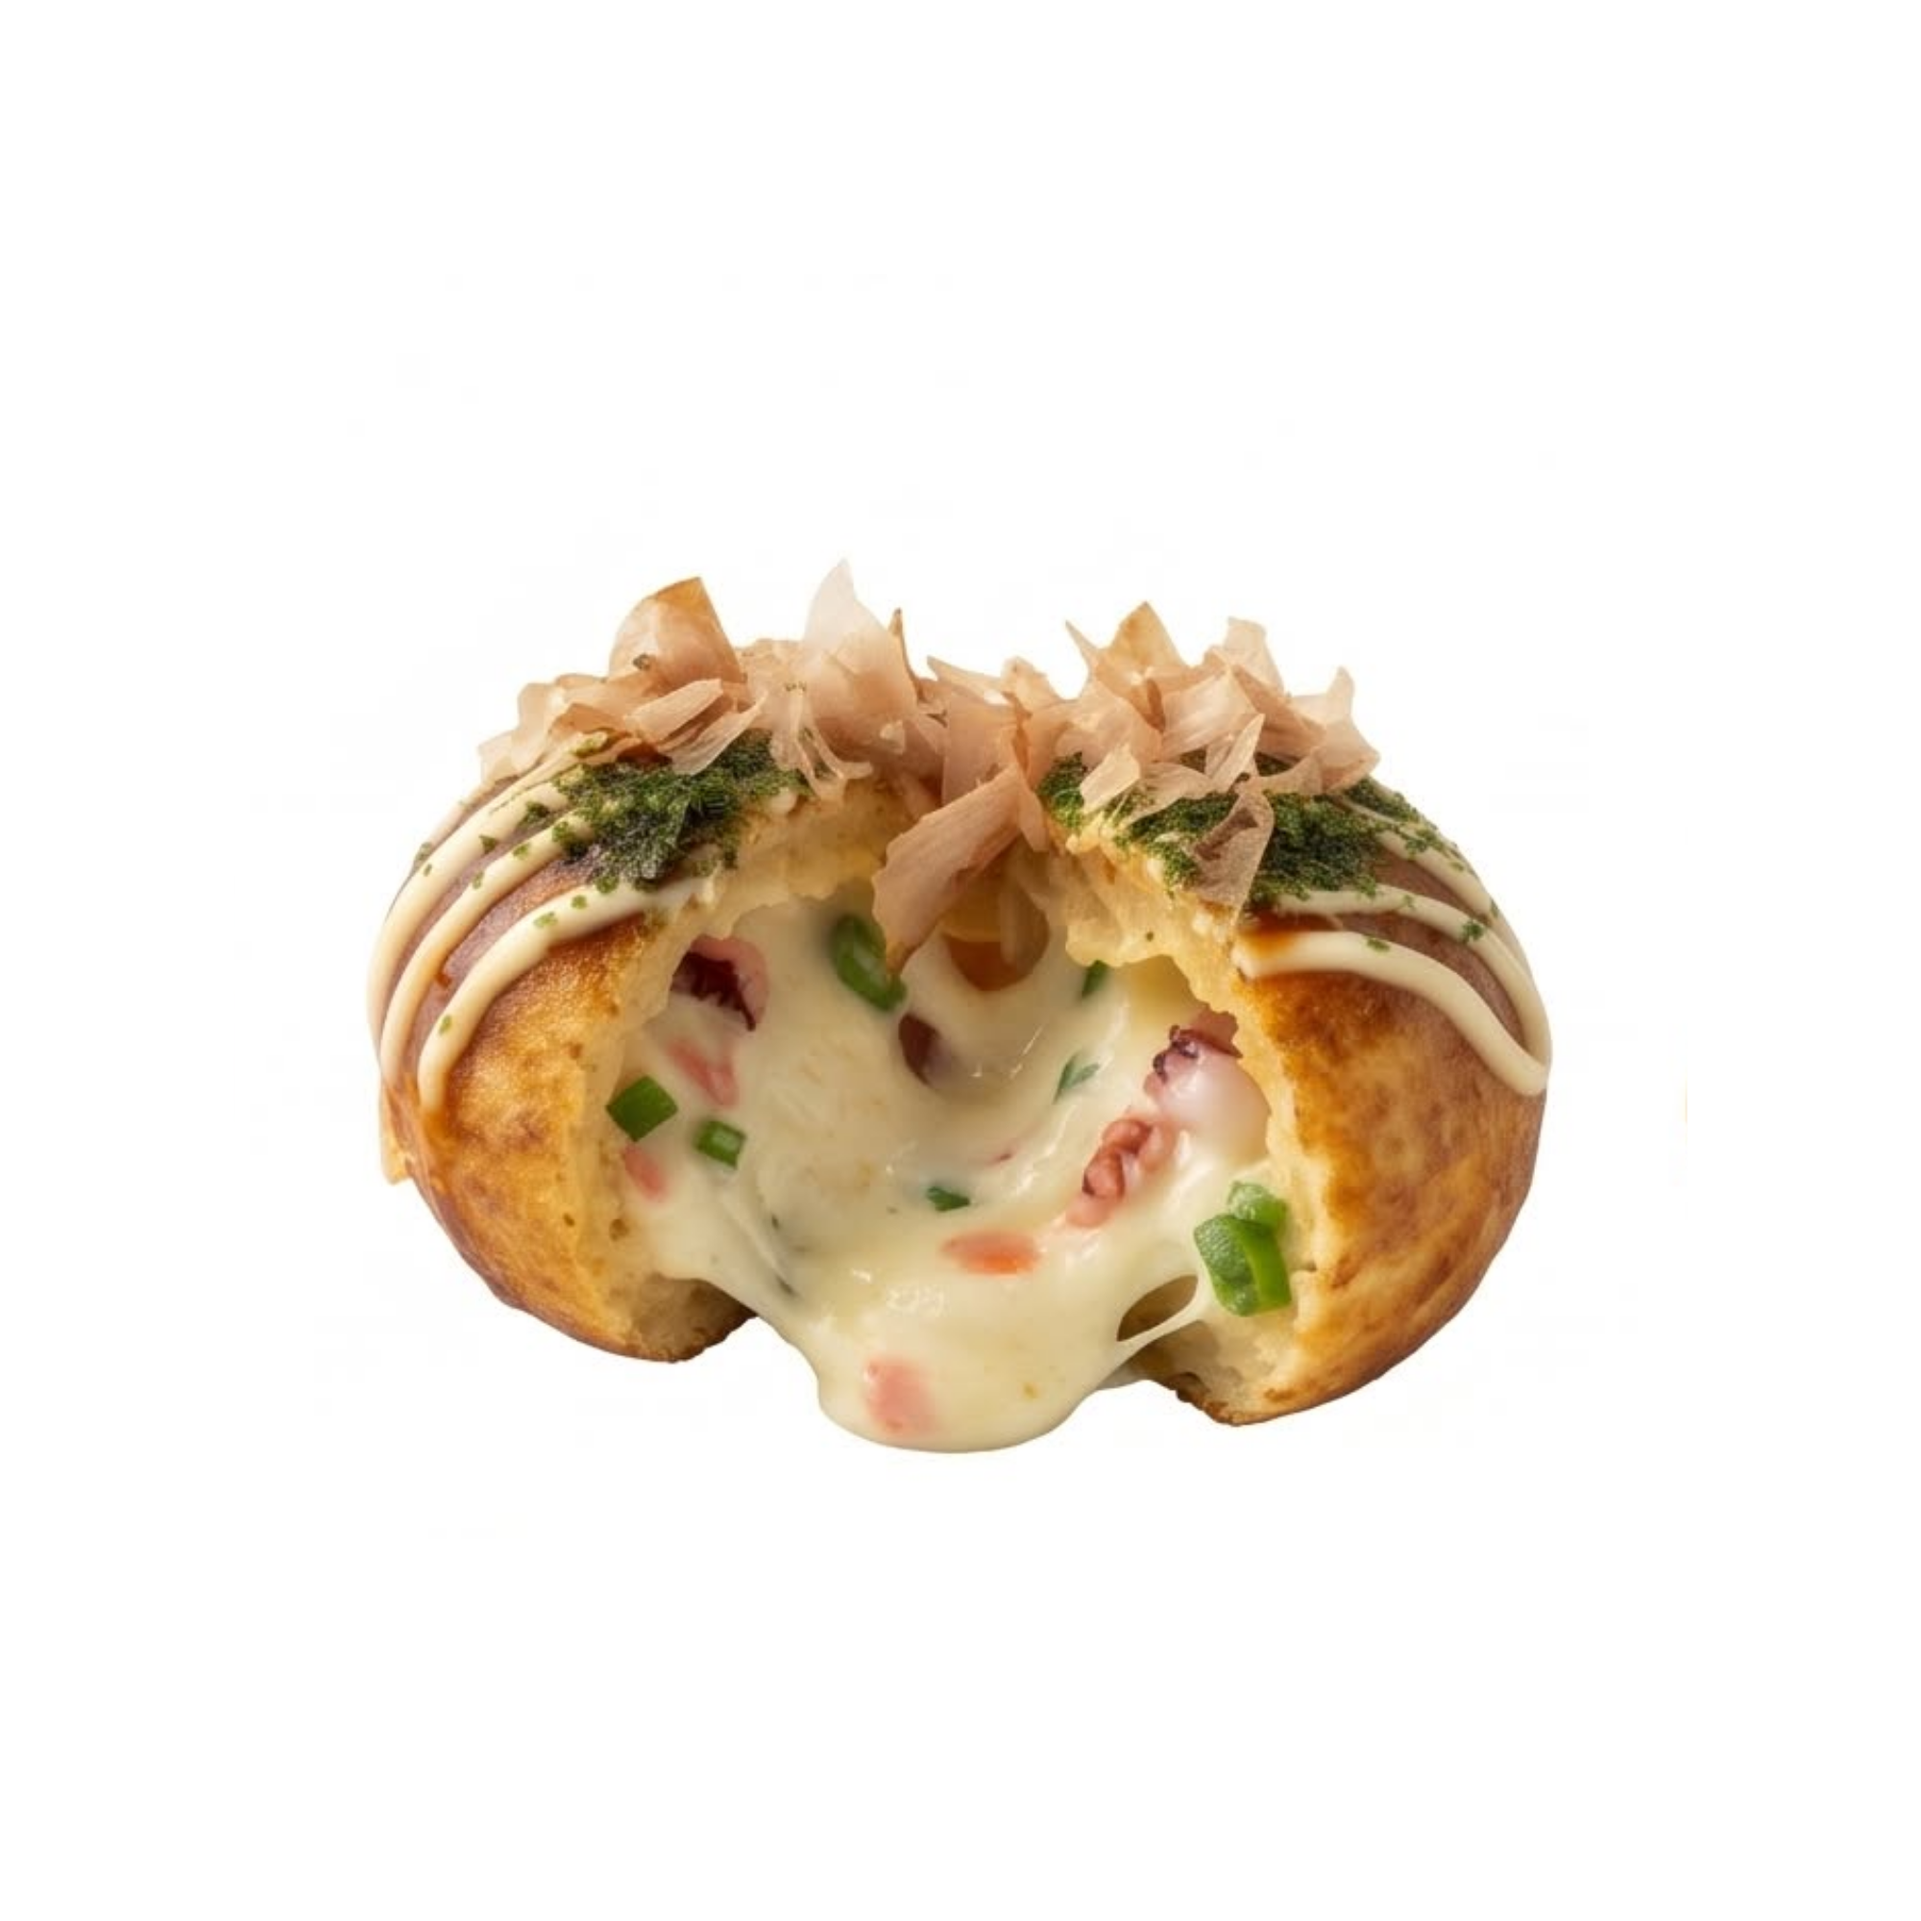
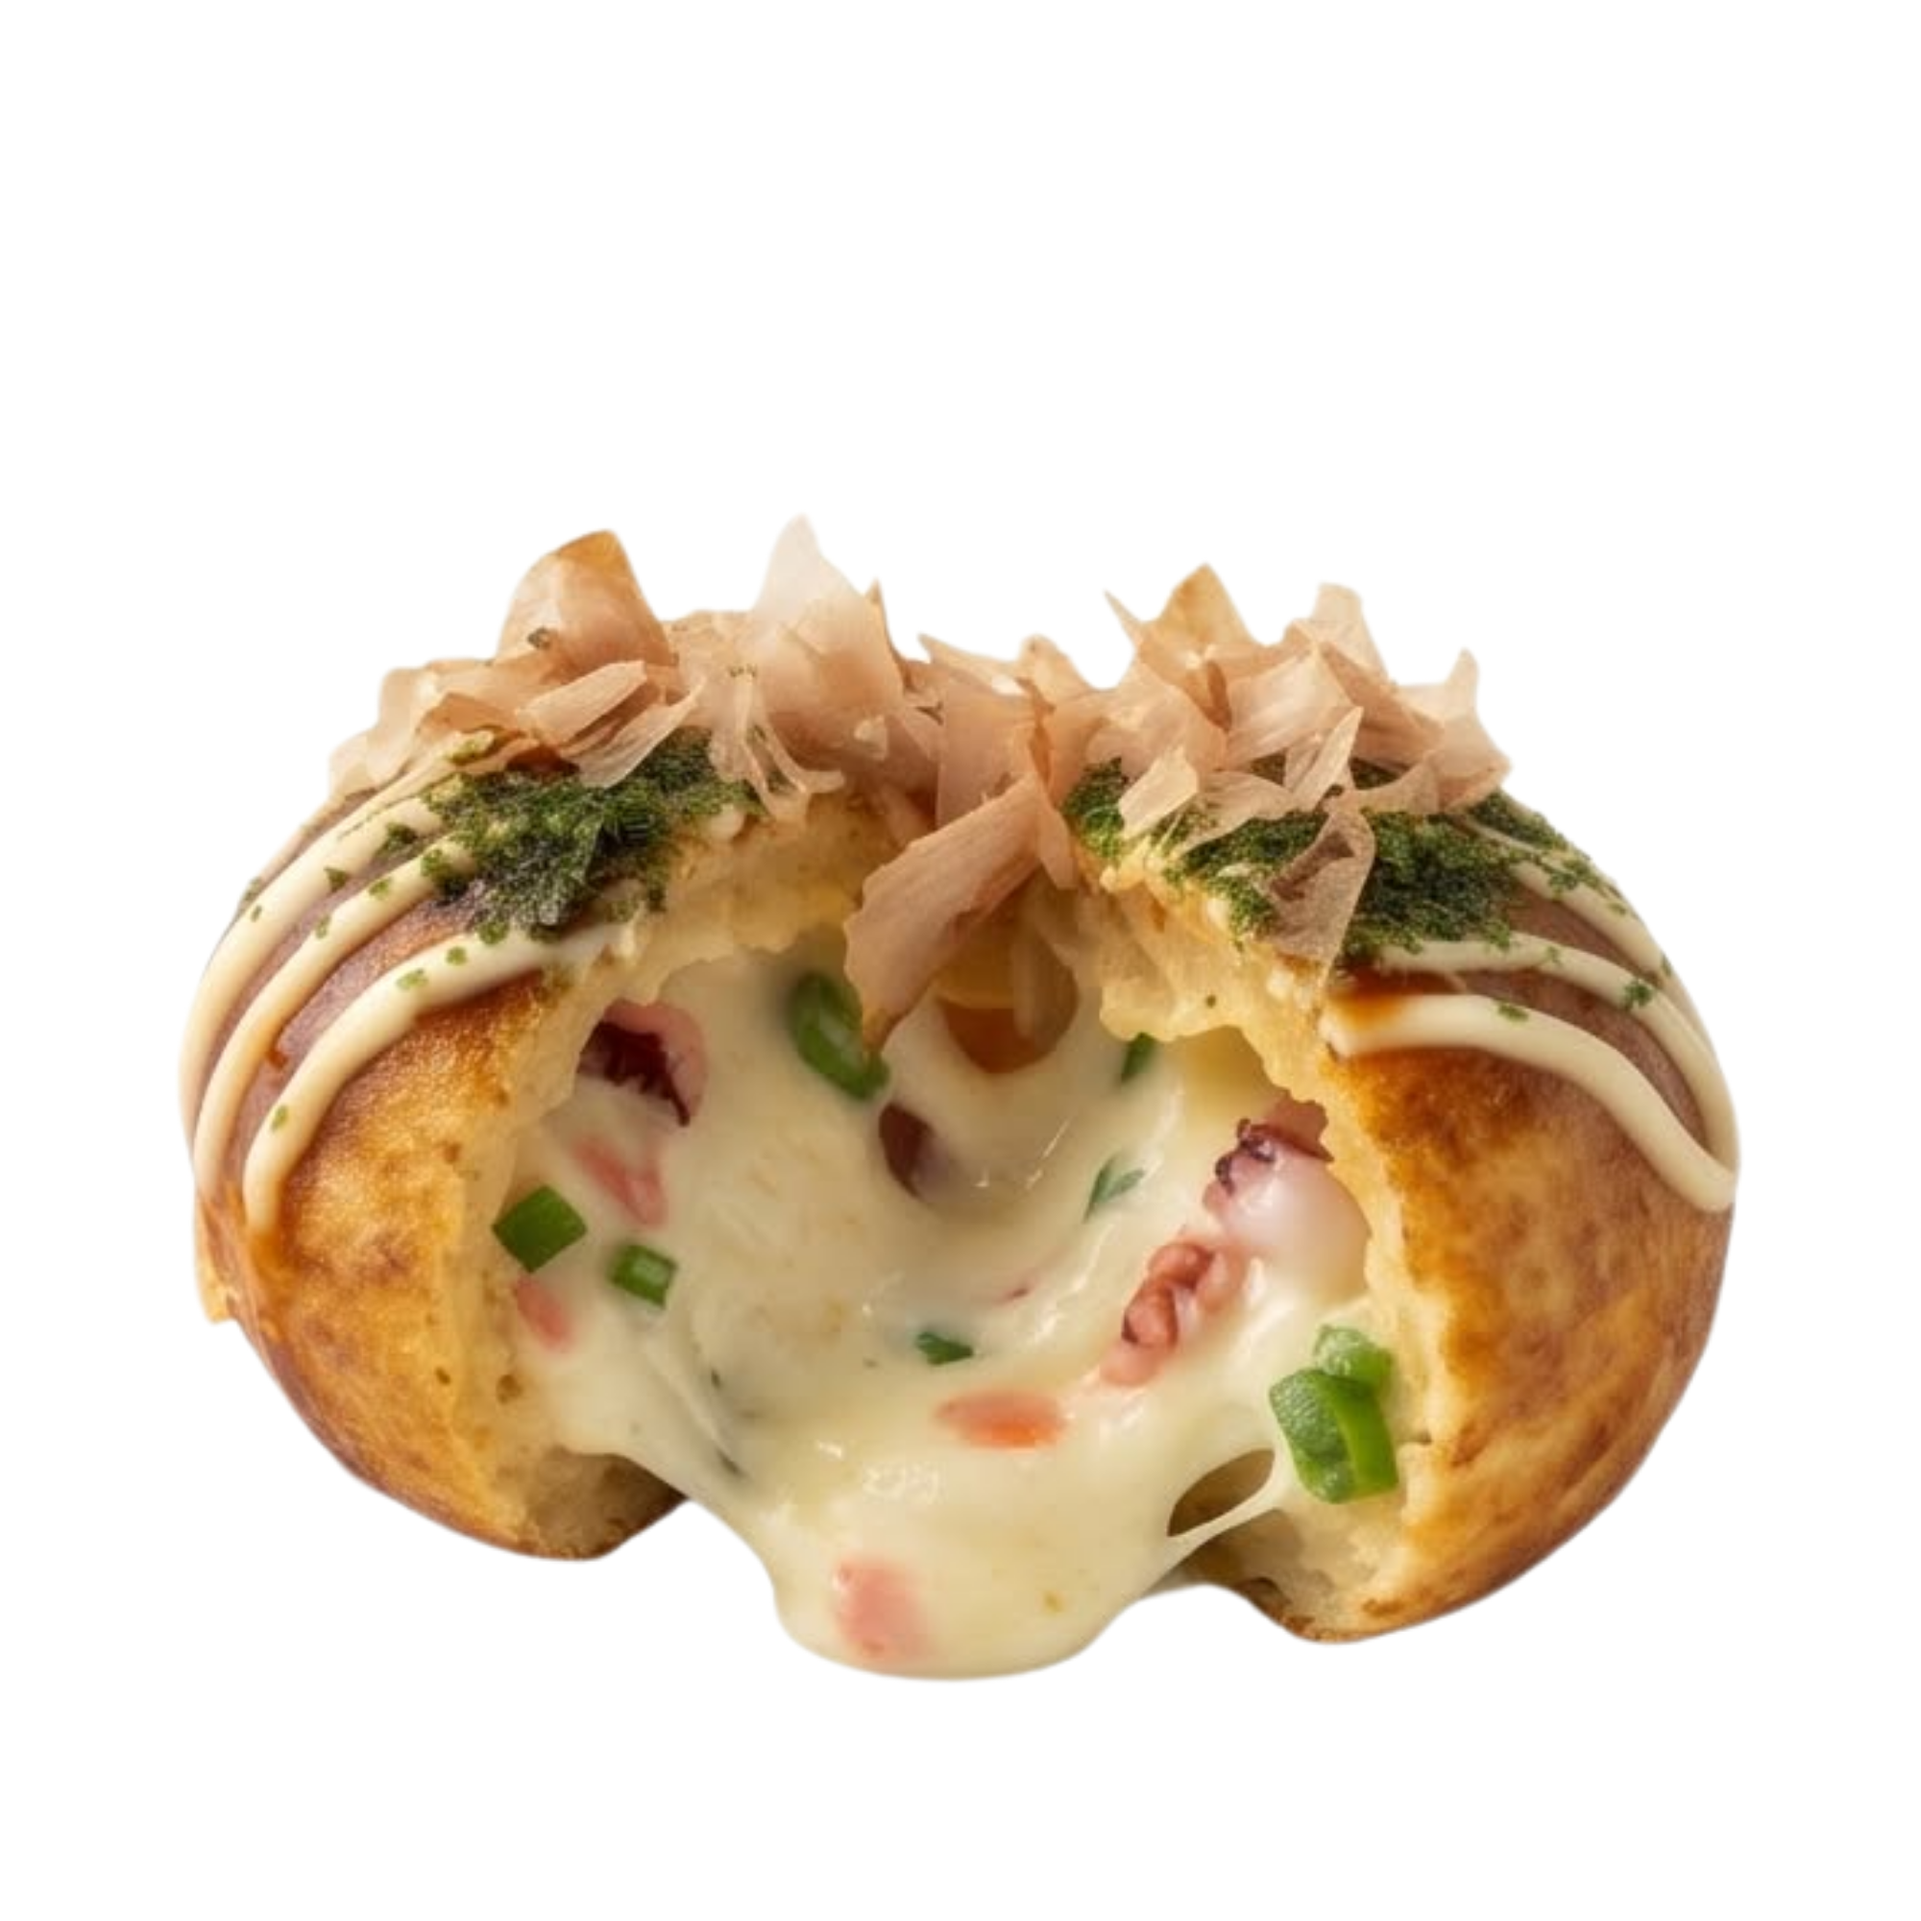
Update Circle of Flavor transparent PNG images

diff --git a/frontend/staff/MenuWorkspace.tsx b/frontend/staff/MenuWorkspace.tsx
@@ -356,6 +356,8 @@ export default function MenuWorkspace({
   const darkSecondarySurface = isDark ? { backgroundColor: '#101027' } : undefined;
   const darkSecondaryText = isDark ? { color: '#FFFFFF' } : undefined;
   const darkWarningText = isDark ? { color: '#101027' } : undefined;
+  const flavorSurface = { backgroundColor: isDark ? colors.navy : colors.white };
+  const flavorText = { color: isDark ? colors.white : colors.navy };
   const [selectedFlavorId, setSelectedFlavorId] = useState('octobits');
   const [paymentMethod, setPaymentMethod] = useState<'Cash' | 'QR'>('Cash');
   const [cashReceived, setCashReceived] = useState('');
@@ -677,7 +679,7 @@ export default function MenuWorkspace({
       </View>
       <ScrollView
         horizontal
-        style={styles.flavorSelector}
+        style={[styles.flavorSelector, flavorSurface]}
         contentContainerStyle={styles.flavorSelectorContent}
         showsHorizontalScrollIndicator={false}
         showsVerticalScrollIndicator={false}
@@ -693,10 +695,10 @@ export default function MenuWorkspace({
               onPress={() => setSelectedFlavorId(flavor.id)}
               style={styles.flavorOption}
             >
-              <View style={[styles.flavorImageFrame, selected && styles.flavorImageFrameSelected]}>
+              <View style={[styles.flavorImageFrame, isDark && { backgroundColor: colors.navy }, selected && styles.flavorImageFrameSelected]}>
                 <Image source={flavor.image} resizeMode="cover" style={styles.flavorImage} />
               </View>
-              <Text style={[styles.flavorLabel, selected && styles.flavorLabelSelected]}>{flavor.label}</Text>
+              <Text style={[styles.flavorLabel, flavorText, selected && styles.flavorLabelSelected]}>{flavor.label}</Text>
             </Pressable>
           );
         })}

diff --git a/frontend/App.tsx b/frontend/App.tsx
@@ -1563,8 +1563,8 @@ function useAppStyles() {
   loadingLogo: { alignSelf: 'center', marginTop: '14%' },
   welcomeScreen: { flex: 1, backgroundColor: '#FFFFFF', overflow: 'hidden' },
   welcomeBackgroundImage: { width: '100%', height: '100%' },
-  whiteHeader: { height: '48%', alignItems: 'center', paddingTop: '5%', backgroundColor: 'rgba(255,255,255,0.18)' },
-  headerLogo: { marginTop: 0 },
+  whiteHeader: { height: '48%', alignItems: 'center', paddingTop: '5%', backgroundColor: 'transparent' },
+  headerLogo: { alignSelf: 'center', marginTop: 0 },
   pinkPanel: {
     position: 'absolute', bottom: 0, left: 0, right: 0,
     backgroundColor: PINK, borderTopLeftRadius: 36, borderTopRightRadius: 36,
@@ -1599,7 +1599,7 @@ function useAppStyles() {
   loginBackground: { flex: 1 },
   loginBackgroundImage: { width: '100%', height: '100%', opacity: 0.38 },
   loginOverlay: { flex: 1, backgroundColor: 'rgba(255, 255, 255, 0.62)' },
-  loginHeader: { alignItems: 'center', justifyContent: 'center', paddingTop: 12, backgroundColor: '#FFFFFF' },
+  loginHeader: { alignItems: 'center', justifyContent: 'center', paddingTop: 12, backgroundColor: 'transparent' },
   loginScroll: { flex: 1 },
   loginScrollContent: { flexGrow: 1, alignItems: 'center', justifyContent: 'center', paddingHorizontal: 20, paddingTop: 12, paddingBottom: 24 },
   loginCard: {

diff --git a/frontend/owner/OwnerLoginScreen.tsx b/frontend/owner/OwnerLoginScreen.tsx
@@ -112,7 +112,7 @@ export default function OwnerLoginScreen({
                 >
                   <Text style={[styles.backText, { color: colors.text }]}>‹ Back</Text>
                 </Pressable>
-                <View style={[styles.logoFrame, { width: logoWidth, height: logoWidth * 0.64, backgroundColor: isDark ? colors.surface : '#FFFFFF' }]}>
+                <View style={[styles.logoFrame, { width: logoWidth, height: logoWidth * 0.64 }]}>
                   <Image
                     source={isDark ? require('../../assets/DARK THEME (LOGO).png') : require('../../assets/LIGHT THEME (LOGO).png')}
                     style={styles.logo}
@@ -252,8 +252,8 @@ const styles = StyleSheet.create({
   backButton: { width: 52, paddingVertical: 8, alignItems: 'flex-start' },
   backText: { color: '#101027', fontFamily: FONT.semibold, fontSize: 12 },
   backButtonSpacer: { width: 52 },
-  logoFrame: { backgroundColor: '#FFFFFF', borderRadius: 8, overflow: 'hidden' },
-  logo: { width: '100%', height: '100%' },
+  logoFrame: { alignItems: 'center', justifyContent: 'center' },
+  logo: { width: '100%', height: '100%', alignSelf: 'center' },
   card: {
     width: '100%',
     borderRadius: 28,
